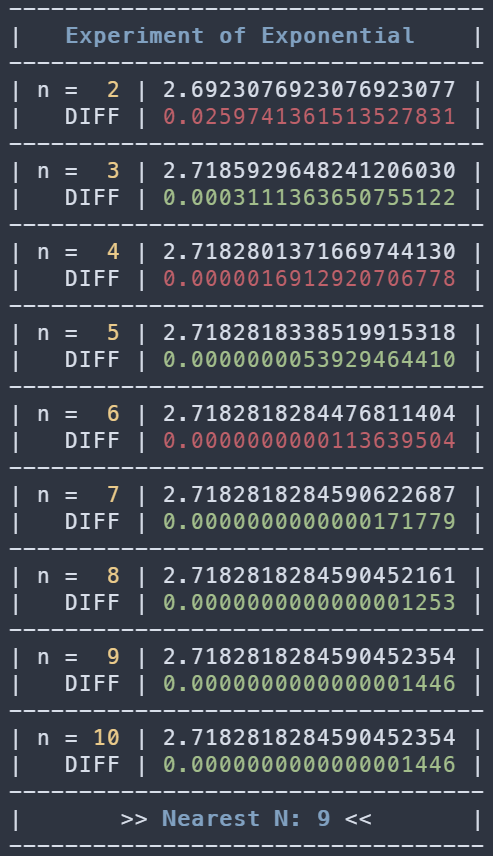
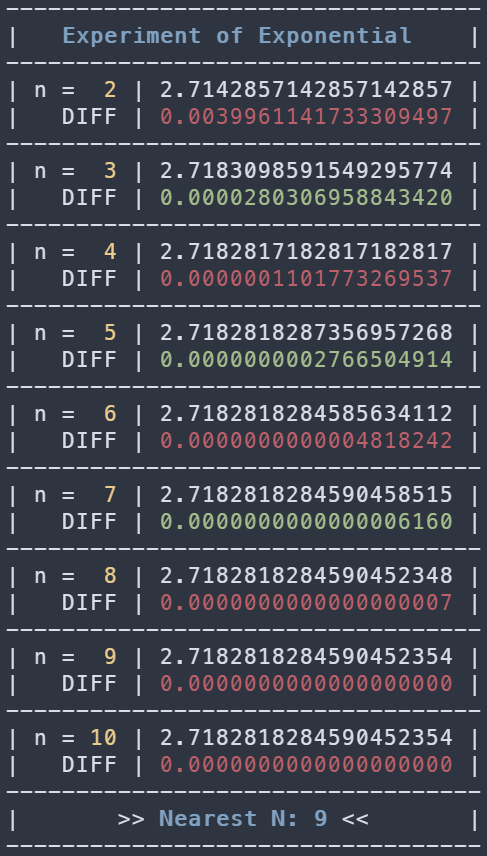
fix(hw3): fix bugs

diff --git a/hw3/hw0304.1.c b/hw3/hw0304.1.c
@@ -1,3 +1,4 @@
+// Copyright (c) JacobLinCool
 #include <stdio.h>
 #include <stdint.h>
 #include <inttypes.h>
@@ -6,7 +7,7 @@ const int DEBUG = 0;
 
 // calculate the exponential, from bottom to top
 long double calc_e(int64_t n) {
-    long double e = 2 * n;
+    long double e = 1 + 1 / (1 + 1 / (2 * n));
     for (int64_t i = 2 * (n - 1); i >= 2; i -= 2) e = 1 + 1 / (1 + 1 / (i + 1 / e));
     e += 1;
     return e;
@@ -22,16 +23,20 @@ int main() {
     printf("|   \033[1;94mExperiment of Exponential\033[m    |\n");
     line();
 
-    long double last = 0;
+    long double last = 0, nearest_dist = 100;
     int64_t nearest = 0;
     for (int64_t n = 2; n <= 1e9; n++) {
         long double e = calc_e(n);
+        long double dist = e - 2.7182818284590452354L > 0 ? e - 2.7182818284590452354L : 2.7182818284590452354L - e;
         printf("| n = \033[93m%2ld\033[m | %.19Lf |\n", n, e);
-        printf("|   DIFF | \033[9%dm%.19Lf\033[m |\n", 1 + (e - 2.7182818284590452354 > 0), e - 2.7182818284590452354 > 0 ? e - 2.7182818284590452354 : 2.7182818284590452354 - e);
+        printf("|   DIFF | \033[9%dm%.19Lf\033[m |\n", 1 + (e - 2.7182818284590452354L > 0), dist);
         line();
         if (e == last) break;
         last = e;
-        nearest = n;
+        if (dist < nearest_dist) {
+            nearest_dist = dist;
+            nearest = n;
+        }
     }
 
     printf("|       >> \033[1;94mNearest N: %ld\033[m <<       |\n", nearest);
@@ -39,3 +44,5 @@ int main() {
 
     return 0;
 }
+
+// Any application that can be written in JavaScript, will eventually be written in JavaScript.

diff --git a/hw3/hw0304.c b/hw3/hw0304.c
@@ -1,3 +1,4 @@
+// Copyright (c) JacobLinCool
 #include <stdio.h>
 #include <stdint.h>
 #include <inttypes.h>
@@ -6,7 +7,7 @@ const int DEBUG = 0;
 
 // calculate the exponential, from bottom to top
 long double calc_e(int64_t n) {
-    long double e = 2 * n;
+    long double e = 1 + 1 / (1 + 1 / (2 * n));
     for (int64_t i = 2 * (n - 1); i >= 2; i -= 2) e = 1 + 1 / (1 + 1 / (i + 1 / e));
     e += 1;
     return e;
@@ -27,3 +28,5 @@ int main() {
 
     return 0;
 }
+
+// Any application that can be written in JavaScript, will eventually be written in JavaScript.

diff --git a/hw3/hw0301.c b/hw3/hw0301.c
@@ -1,3 +1,4 @@
+// Copyright (c) JacobLinCool
 #include <stdio.h>
 #include <stdint.h>
 #include <inttypes.h>
@@ -71,3 +72,5 @@ int64_t calc_level(int64_t y, int64_t x) {
 
     return level;
 }
+
+// Any application that can be written in JavaScript, will eventually be written in JavaScript.

diff --git a/hw3/hw0305.c b/hw3/hw0305.c
@@ -1,3 +1,4 @@
+// Copyright (c) JacobLinCool
 #include <stdio.h>
 #include <stdint.h>
 #include <inttypes.h>
@@ -99,3 +100,5 @@ int main() {
 
     return 0;
 }
+
+// Any application that can be written in JavaScript, will eventually be written in JavaScript.

diff --git a/hw3/hw0302.c b/hw3/hw0302.c
@@ -1,3 +1,4 @@
+// Copyright (c) JacobLinCool
 #include <stdio.h>
 #include <stdint.h>
 #include <inttypes.h>
@@ -65,3 +66,5 @@ int main() {
 
     return 0;
 }
+
+// Any application that can be written in JavaScript, will eventually be written in JavaScript.

diff --git a/hw3/hw0303.c b/hw3/hw0303.c
@@ -1,3 +1,4 @@
+// Copyright (c) JacobLinCool
 #include <stdio.h>
 #include <stdint.h>
 #include <inttypes.h>
@@ -81,3 +82,5 @@ int main() {
 
     return 0;
 }
+
+// Any application that can be written in JavaScript, will eventually be written in JavaScript.

diff --git a/hw3/hw0304.md b/hw3/hw0304.md
@@ -7,13 +7,16 @@ In the code `hw0304.c`, we use `calc_e(n)` to calculate the value of $e$ at n "p
 We can change the code a little bit to make it find a suitable value of n:
 
 ```c
-long double last = 0;
+long double last = 0, nearest_dist = 100;
 int64_t nearest = 0;
 for (int64_t n = 2; n <= 1e9; n++) {
     long double e = calc_e(n);
     if (e == last) break;
     last = e;
-    nearest = n;
+    if (dist < nearest_dist) {
+        nearest_dist = dist;
+        nearest = n;
+    }
 }
 ```
 
@@ -23,10 +26,10 @@ Let's see what the result is:
 
 The green DIFF color means the calculated value is greater than the given truth.
 
-While the red DIFF color means the calculated value is less than the given truth.
+While the red DIFF color means the calculated value is less than or equal to the given truth.
 
-After `n = 9`, we get the same result as before (2.7182818284590452354).
+After `n = 9`, we get the same result as before (2.7182818284590452354), the same as the given truth.
 
-But there is still a precision problem when we do the difference between the given truth and the calculated value.
+The nearest n that makes $e$ most close to the given truth is `n = 9`.
 
 The source code of the experiment is available in `hw0304.1.c`.
